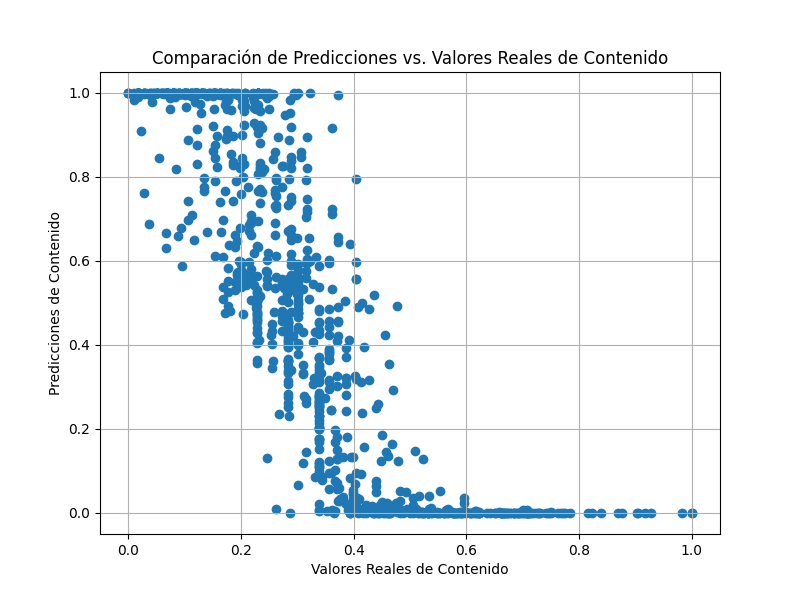
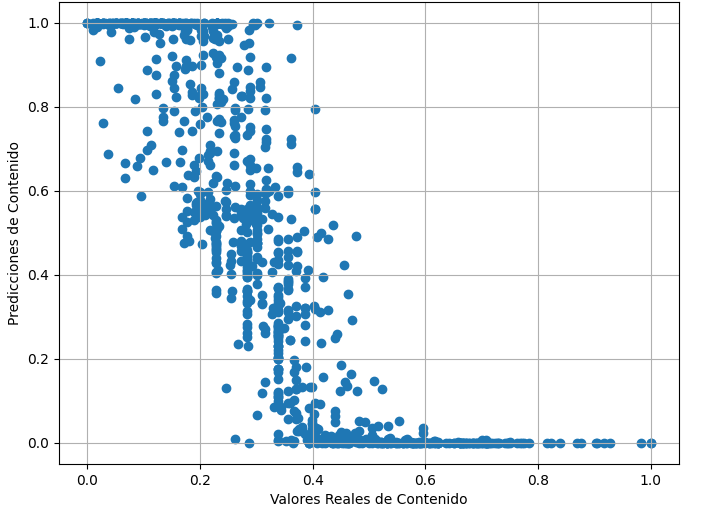
new images

diff --git a/templates/index.html b/templates/index.html
@@ -38,6 +38,24 @@
                             <input class="button" type="submit" value="Evaluar" />
                         </form>
                     </div>
+                    <div class="col-lg-6 text-center">
+                        <h6>Gráfica 1. Comparación de Puntajes de Contenido con el modelo deBerta (Valores Reales vs. Predicciones)
+                        </h6>
+                        <img class="img_graficas" src="{{ url_for('static', filename='imgs/deBerta1.png') }}">
+                    </div>
+                    <div class="col-lg-6 text-center">
+                        <h6>Gráfica 2. Comparación de Puntajes de Redacción con el modelo deBerta (Valores Reales vs. Predicciones)</h6>
+                        <img class="img_graficas" src="{{ url_for('static', filename='imgs/deBerta2.png') }}">
+                    </div>
+                    <div class="col-lg-6 text-center">
+                        <h6>Gráfico 3. Histograma de Errores en Puntajes de Contenido con el modelo deBerta</h6>
+                        <img class="img_graficas" src="{{ url_for('static', filename='imgs/deBerta3.png') }}">
+                    </div>
+                    <div class="col-lg-6 text-center">
+                        <h6>Gráfico 4. Histograma de Errores en Puntajes de Redacción con el modelo deBerta
+                        </h6>
+                        <img class="img_graficas" src="{{ url_for('static', filename='imgs/deBerta4.png') }}">
+                    </div>
                 </div>
             </div>
 
